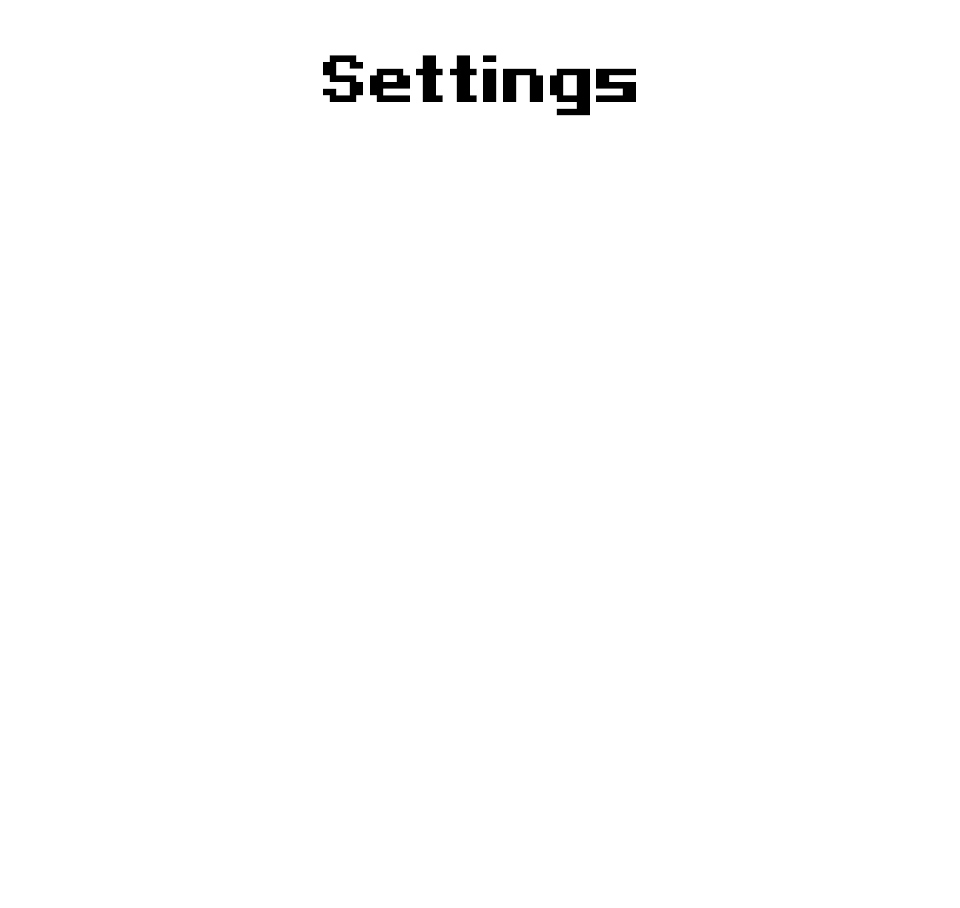
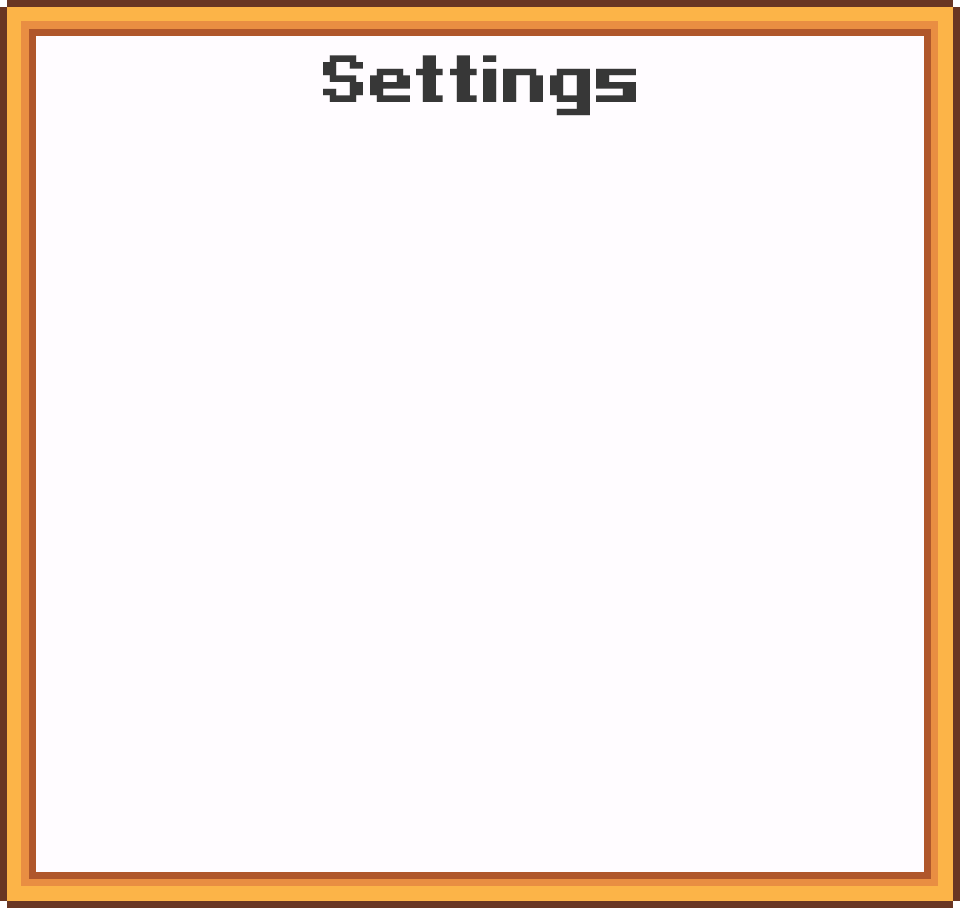
Change setting to finaldesign

Changed region(s): [[0.0, 0.0, 1.0, 1.0]]

diff --git a/ChickenUnknown/Screen/SettingScreen.cs b/ChickenUnknown/Screen/SettingScreen.cs
@@ -9,9 +9,9 @@ using Microsoft.Xna.Framework.Media;
 
 namespace ChickenUnknown.Screen {
 	class SettingScreen : IGameScreen {
-        private SpriteFont Arial;
+        private SpriteFont Pixeloid;
 
-        public Texture2D ArrowLeft,ArrowRight,SettingBar,SettingClose,BG,SettingFrame,SettingPointer;
+        public Texture2D ArrowLeft,ArrowRight,SettingBar,SettingClose,SettingCloseHover,BG,SettingFrame,SettingPointer;
         private SoundEffect Click,HoverMenu;
 
         public double PostSFXVol,PostMusicVol;
@@ -26,12 +26,13 @@ namespace ChickenUnknown.Screen {
 		}
 		public override void LoadContent() {
 			base.LoadContent();
-            Arial = Content.Load<SpriteFont>("Arial");
+            Pixeloid = Content.Load<SpriteFont>("Pixeloid");
 
             ArrowLeft = Content.Load<Texture2D>("SettingScreen/setting_arrow_left");
             ArrowRight = Content.Load<Texture2D>("SettingScreen/setting_arrow_right");
             SettingBar = Content.Load<Texture2D>("SettingScreen/setting_bar");
             SettingClose = Content.Load<Texture2D>("SettingScreen/setting_close");
+            SettingCloseHover = Content.Load<Texture2D>("SettingScreen/close_hover");
             BG = Content.Load<Texture2D>("SettingScreen/bg");
             SettingFrame = Content.Load<Texture2D>("SettingScreen/setting_frame");
             SettingPointer = Content.Load<Texture2D>("SettingScreen/setting_pointer");
@@ -59,38 +60,39 @@ namespace ChickenUnknown.Screen {
             _spriteBatch.Draw(BG, CenterElementWithHeight(BG,0) , Color.White);
             
             _spriteBatch.Draw(SettingFrame, CenterElementWithHeight(SettingFrame,0) , Color.White);
+            _spriteBatch.DrawString(Pixeloid, "Sound Effect Volume : " +(int)(Singleton.Instance.SFXVolume) , new Vector2(555,246), Color.Black);
             _spriteBatch.Draw(SettingBar, new Rectangle(611, 328, SettingBar.Width, SettingBar.Height), Color.White);  
-            _spriteBatch.Draw(ArrowLeft, new Rectangle(555, 314, ArrowLeft.Width, ArrowLeft.Height), Color.White);  
+            _spriteBatch.Draw(ArrowLeft, new Rectangle(565, 314, ArrowLeft.Width, ArrowLeft.Height), Color.White);  
             _spriteBatch.Draw(ArrowRight, new Rectangle(1309, 314, ArrowRight.Width, ArrowRight.Height), Color.White);
             PostSFXVol=(Singleton.Instance.SFXVolume)*6.98;
             PosPointerSFX=((int)(PostSFXVol-14))+611;
             _spriteBatch.Draw(SettingPointer, new Rectangle(PosPointerSFX, 314, SettingPointer.Width, SettingPointer.Height), Color.White);
+            _spriteBatch.DrawString(Pixeloid, "Music Volume : " + (int)(Singleton.Instance.MusicVolume) , new Vector2(555,415), Color.Black);
             _spriteBatch.Draw(SettingBar, new Rectangle(611, 497, SettingBar.Width, SettingBar.Height), Color.White);  
-            _spriteBatch.Draw(ArrowLeft, new Rectangle(555, 483, ArrowLeft.Width, ArrowLeft.Height), Color.White);  
+            _spriteBatch.Draw(ArrowLeft, new Rectangle(565, 483, ArrowLeft.Width, ArrowLeft.Height), Color.White);  
             _spriteBatch.Draw(ArrowRight, new Rectangle(1309, 483, ArrowRight.Width, ArrowRight.Height), Color.White);
             PostMusicVol=Singleton.Instance.MusicVolume*6.98;
             PosPointerMusic=((int)(PostMusicVol-14))+611;
             _spriteBatch.Draw(SettingPointer, new Rectangle(PosPointerMusic, 483, SettingPointer.Width, SettingPointer.Height), Color.White);
-            _spriteBatch.Draw(SettingClose, new Rectangle(836, 903, SettingClose.Width, SettingClose.Height), Color.White);
+            if(CloseButton!){_spriteBatch.Draw(SettingCloseHover, new Rectangle(836, 780, SettingClose.Width, SettingClose.Height), Color.White);
+            }else{_spriteBatch.Draw(SettingClose, new Rectangle(836, 780, SettingClose.Width, SettingClose.Height), Color.White);}
         }
 
         public void DrawLog(SpriteBatch _spriteBatch){
-            _spriteBatch.DrawString(Arial, "X = " + Singleton.Instance.MouseCurrent.X , new Vector2(0,0), Color.Black);
-            _spriteBatch.DrawString(Arial, "Y = " + Singleton.Instance.MouseCurrent.Y, new Vector2(0, 20), Color.Black);
-            _spriteBatch.DrawString(Arial, "Is Click " + IsClick(), new Vector2(0,40), Color.Black);
-            _spriteBatch.DrawString(Arial, "Is Dragging " + IsDragging(), new Vector2(0,60), Color.Black);
-            _spriteBatch.DrawString(Arial, "SFXVolume = " + Singleton.Instance.SFXVolume, new Vector2(0, 80), Color.Black);
-            _spriteBatch.DrawString(Arial, "MusicVolume = " + Singleton.Instance.MusicVolume , new Vector2(0,100), Color.Black);
-            _spriteBatch.DrawString(Arial, "PosPointerSFX = " + PosPointerSFX , new Vector2(0,120), Color.Black);
-            _spriteBatch.DrawString(Arial, "tempMouseCurrentX = " + TempMouseCurrentX , new Vector2(0,160), Color.Black);
-            _spriteBatch.DrawString(Arial, "tempsfx = " + tempsfx , new Vector2(0,180), Color.Black);
-            _spriteBatch.DrawString(Arial, "NewMouseCurrentX = " + NewMouseCurrentX , new Vector2(0,200), Color.Black);
-            _spriteBatch.DrawString(Arial, "IsDragPointer = " + IsDragPointer1 , new Vector2(0,220), Color.Black);
-            _spriteBatch.DrawString(Arial, "Sound Effect Volume : " +(int)(Singleton.Instance.SFXVolume) , new Vector2(555,246), Color.Black);
-            _spriteBatch.DrawString(Arial, "Music Volume : " + (int)(Singleton.Instance.MusicVolume) , new Vector2(555,415), Color.Black);
+            _spriteBatch.DrawString(Pixeloid, "X = " + Singleton.Instance.MouseCurrent.X , new Vector2(0,0), Color.Black);
+            _spriteBatch.DrawString(Pixeloid, "Y = " + Singleton.Instance.MouseCurrent.Y, new Vector2(0, 20), Color.Black);
+            // _spriteBatch.DrawString(Pixeloid, "Is Click " + IsClick(), new Vector2(0,40), Color.Black);
+            // _spriteBatch.DrawString(Pixeloid, "Is Dragging " + IsDragging(), new Vector2(0,60), Color.Black);
+            // _spriteBatch.DrawString(Pixeloid, "SFXVolume = " + Singleton.Instance.SFXVolume, new Vector2(0, 80), Color.Black);
+            // _spriteBatch.DrawString(Pixeloid, "MusicVolume = " + Singleton.Instance.MusicVolume , new Vector2(0,100), Color.Black);
+            // _spriteBatch.DrawString(Pixeloid, "PosPointerSFX = " + PosPointerSFX , new Vector2(0,120), Color.Black);
+            // _spriteBatch.DrawString(Pixeloid, "tempMouseCurrentX = " + TempMouseCurrentX , new Vector2(0,160), Color.Black);
+            // _spriteBatch.DrawString(Pixeloid, "tempsfx = " + tempsfx , new Vector2(0,180), Color.Black);
+            // _spriteBatch.DrawString(Pixeloid, "NewMouseCurrentX = " + NewMouseCurrentX , new Vector2(0,200), Color.Black);
+            // _spriteBatch.DrawString(Pixeloid, "IsDragPointer = " + IsDragPointer1 , new Vector2(0,220), Color.Black);
         }
         public void ButtonsUpdate(){
-            if(MouseOnElement(555, 555+56, 314,314+56)){
+            if(MouseOnElement(565, 565+56, 314,314+56)){
                 if(HoverButton1 == false){
                     HoverMenu.Play();
                     HoverButton1 = true;
@@ -122,7 +124,7 @@ namespace ChickenUnknown.Screen {
             } else{
                 HoverButton2 = false;
             }
-            if(MouseOnElement(555, 555+56, 483,483+56)){
+            if(MouseOnElement(565, 565+56, 483,483+56)){
                 if(HoverButton3 == false){
                     HoverMenu.Play();
                     HoverButton3 = true;
@@ -154,7 +156,7 @@ namespace ChickenUnknown.Screen {
             } else {
                 HoverButton4 = false;
             }
-            if(MouseOnElement(836, 836+248, 903,903+248)){
+            if(MouseOnElement(836, 836+248, 780,780+248)){
                 if(CloseButton == false){
                     HoverMenu.Play();
                     CloseButton = true;
